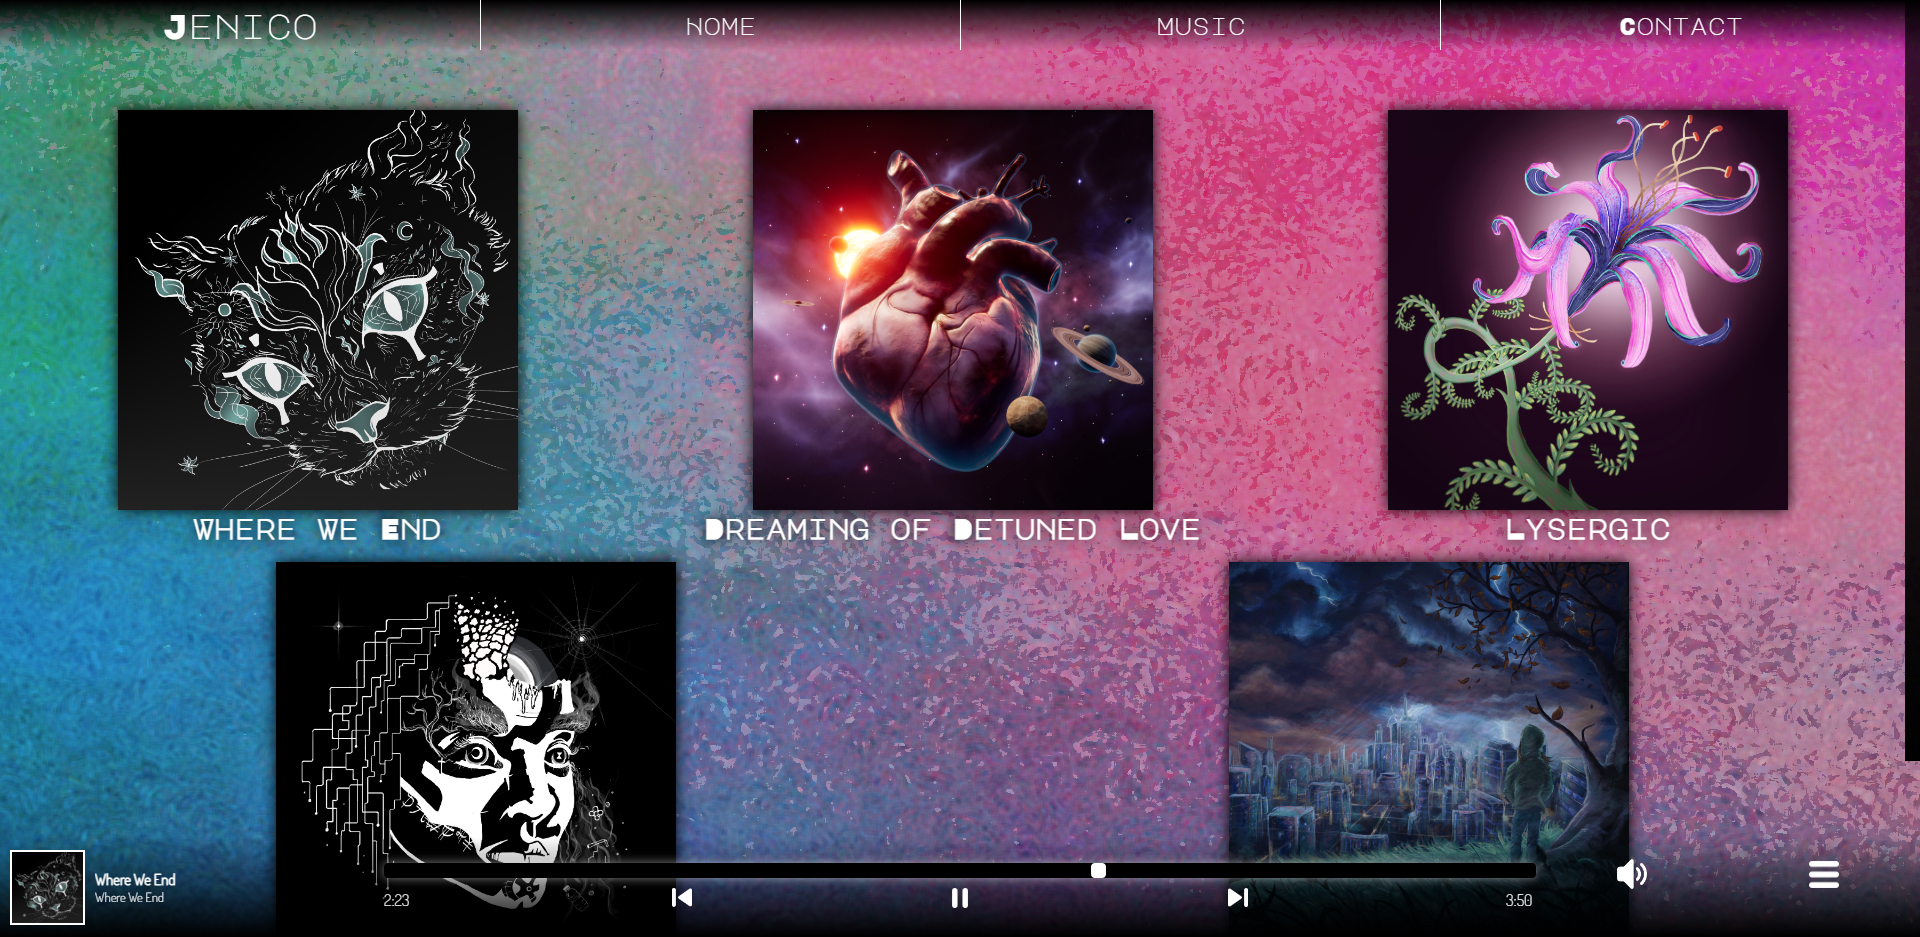
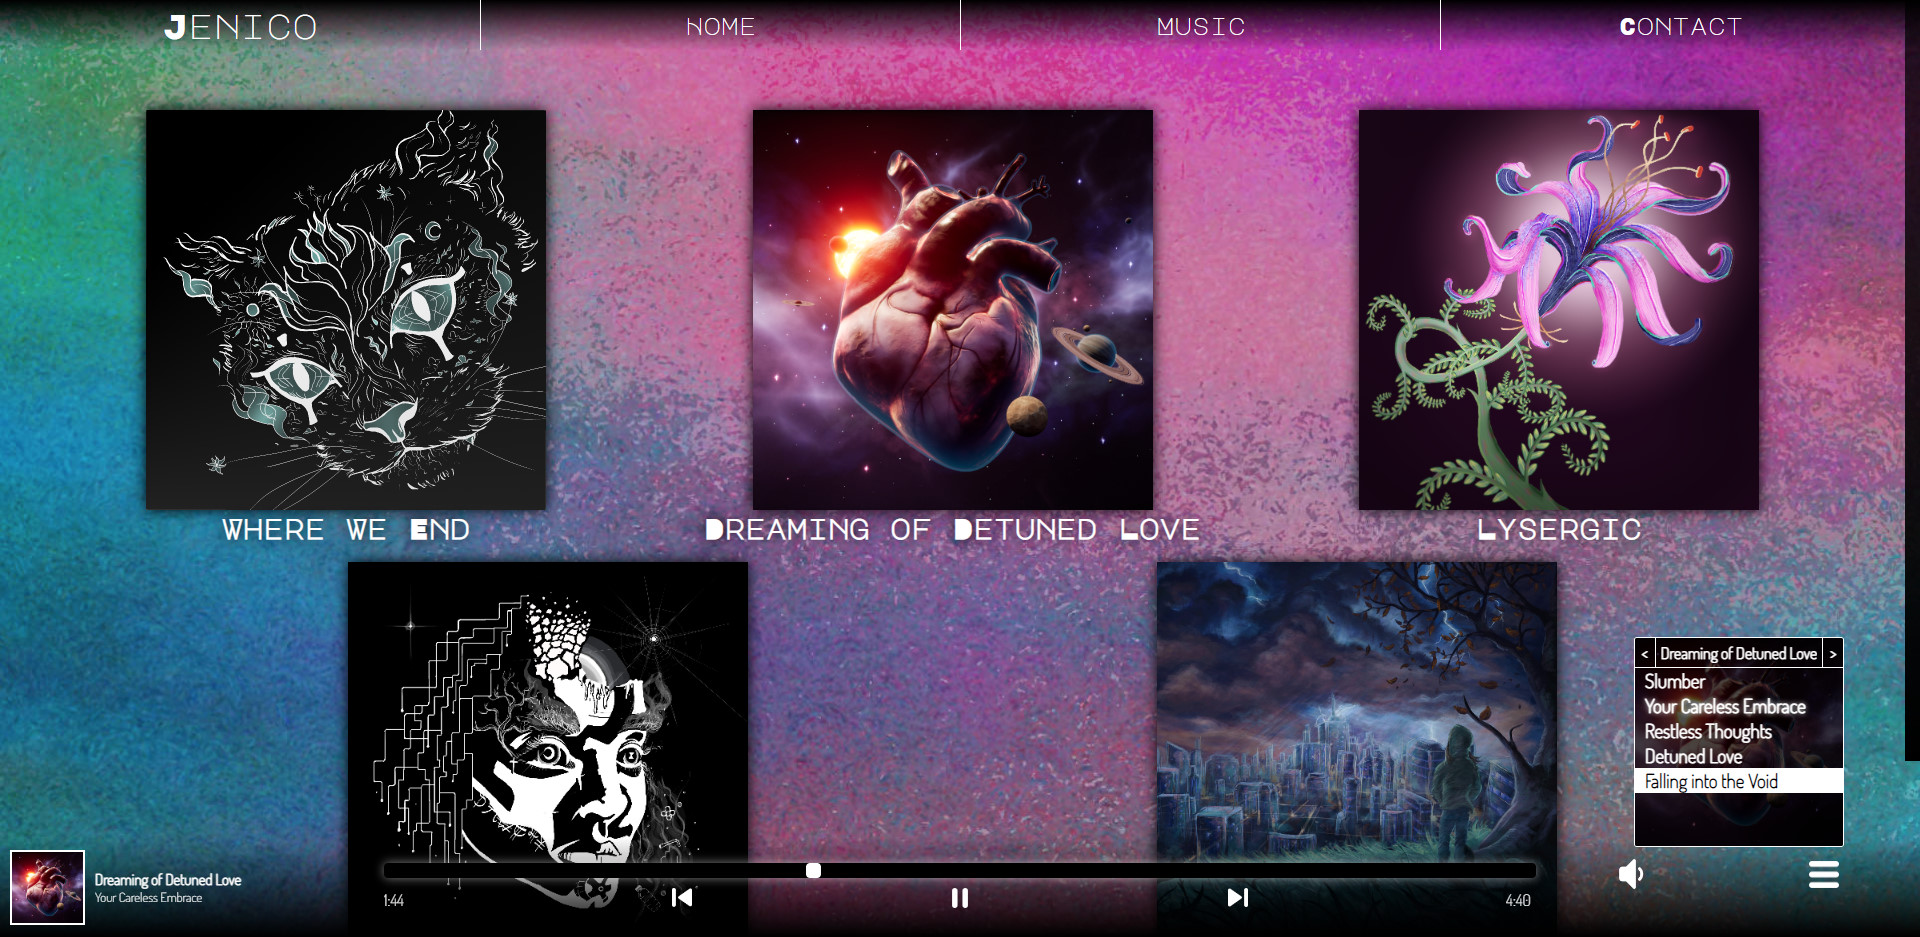
fixing and cleaning up html and css

diff --git a/index.html b/index.html
@@ -12,9 +12,7 @@
 </head>
 <body>
     <div>
-        <div class="animation fillScreen"></div>
         <nav>
-            <div class="animation"></div>
             <a href="#home">Home</a>
             <a href="#about">About</a>
             <a href="#skills">Skills</a>
@@ -94,18 +92,33 @@
                     <div class="info">
                         <img src="media/images/Jenico.jpg" alt="Music player page"/>
                         <div>
-                            <h3>Musician's Personal Website</h3>
-                            <p>Personal website for electronic music producer Jenico, with built in music player.</p>
-                            <section class="projectsSkills">
-                                <h4>Skills Used</h4>
-                                <ul>
-                                    <li><img src="media/images/React.png" alt="React"/></li>
-                                    <li><img src="media/images/Typescript.png" alt="Typescript"/></li>
-                                    <li><img src="media/images/Firebase.png" alt="Firebase"/></li>
-                                </ul>
-                            </section>
-                            <a href="https://github.com/PerryBaran/dodl" target="_blank">Repository</a>
-                            <a href="https://perrybaran.github.io/dodl/" target="_blank">Live Preview</a>
+                            <h3>Personal Website and Music Player</h3>
+                            <p>A small personal project to showcase my music. Repurposed and improved upon a lot of the code from the project below, but I believe 
+                                both projects do enough different to justify them both being showcased. Created in React and Typescript.</p>
+                            <ul class="projectsSkills">
+                                <li><img src="media/images/React.png" alt="React"/></li>
+                                <li><img src="media/images/Typescript.png" alt="Typescript"/></li>
+                                <li><img src="media/images/Firebase.png" alt="Firebase"/></li>
+                            </ul>
+                            <a href="https://github.com/PerryBaran/Jenico" target="_blank">Repository</a>
+                            <a href="https://perrybaran.github.io/Jenico/" target="_blank">Live Preview</a>
+                        </div>
+                    </div>
+                </section>
+                <section class="project">
+                    <div class="info">
+                        <img src="media/images/DoDL.jpg" alt="Music player page"/>
+                        <div>
+                            <h3>Music and Video Player</h3>
+                            <p>Music and video player for one of my EPs. Created in React, unit tests with Jest and React Testing Library.
+                            </p>
+                            <ul class="projectsSkills">
+                                <li><img src="media/images/React.png" alt="React"/></li>
+                                <li><img src="media/images/Jest.png" alt="Jest"/></li>
+                                <li><img src="media/images/Firebase.png" alt="Firebase"/></li>
+                            </ul>
+                            <a href="https://github.com/PerryBaran/Jenico" target="_blank">Repository</a>
+                            <a href="https://perrybaran.github.io/Jenico/" target="_blank">Live Preview</a>
                         </div>
                     </div>
                 </section>
@@ -115,14 +128,11 @@
                         <div>
                             <h3>Weather App</h3>
                             <p>Weather app created in Javascript. Gets weather data from OpenWeatherMap's Weather API.</p>
-                            <section class="projectsSkills">
-                                <h4>Skills Used</h4>
-                                <ul>
-                                    <li><img src="media/images/JS.png" alt="Javascript"/></li>
-                                    <li><img src="media/images/HTML5.png" alt="HTML5"/></li>
-                                    <li><img src="media/images/CSS3.png" alt="CSS3"/></li>
-                                </ul>
-                            </section>
+                            <ul class="projectsSkills">
+                                <li><img src="media/images/JS.png" alt="Javascript"/></li>
+                                <li><img src="media/images/HTML5.png" alt="HTML5"/></li>
+                                <li><img src="media/images/CSS3.png" alt="CSS3"/></li>
+                            </ul>
                             <a href="https://github.com/PerryBaran/weatherapp" target="_blank">Repository</a>
                             <a href="https://perrybaran.github.io/weatherapp/" target="_blank">Live Preview</a>
                         </div>
@@ -130,18 +140,15 @@
                 </section>
                 <section class="project">
                     <div class="info">
-                        <img src="media/images/DoDL.jpg" alt="Music Player page"/>
+                        <img src="media/images/Online Store.jpg" alt="Item page"/>
                         <div>
-                            <h3>Music Player</h3>
-                            <p>Music and videoplayer for the album Dreaming of Detuned Love by Jenico.</p>
-                            <section class="projectsSkills">
-                                <h4>Skills Used</h4>
-                                <ul>
-                                    <li><img src="media/images/React.png" alt="React"/></li>
-                                    <li><img src="media/images/Jest.png" alt="Jest"/></li>
-                                    <li><img src="media/images/Firebase.png" alt="Firebase"/></li>
-                                </ul>
-                            </section>
+                            <h3>Online Store</h3>
+                            <p>UI for an online videogame key seller. Made in React and my first project to use React BrowserRouter.</p>
+                            <ul class="projectsSkills">
+                                <li><img src="media/images/React.png" alt="React"/></li>
+                                <li><img src="media/images/JS.png" alt="Javascript"/></li>
+                                <li><img src="media/images/CSS3.png" alt="CSS3"/></li>
+                            </ul>
                             <a href="https://github.com/PerryBaran/shopping-cart" target="_blank">Repository</a>
                             <a href="https://perrybaran.github.io/shopping-cart/#/" target="_blank">Live Preview</a>
                         </div>

diff --git a/styles/styles.css b/styles/styles.css
@@ -195,7 +195,7 @@ header p > a {
 /*About*/
 #about img{
     aspect-ratio: 1;
-    height: 400px;
+    height: 380px;
     border-radius: 100%;
 }
 
@@ -326,21 +326,13 @@ img[alt$="page"]{
     z-index: 5000;
 }
 
-.projectsSkills > h4 {
-    margin-bottom: 5px;
-
-    color: var(--colour-light);
-
-    font-family: 'Roboto Mono', monospace;
-    font-size: 1.5rem;
-    font-weight: bold;
-}
-
-.projectsSkills ul {
+.projectsSkills {
     all:unset;
     display: flex;
     justify-content: space-around;
     align-items: center;
+
+    margin-top: 40px;
 }
 
 .projectsSkills li {
@@ -353,25 +345,8 @@ img[alt$="page"]{
     background-color: var(--colour-light)
 }
 
-#projects .project:nth-of-type(2n) p, #projects .project:nth-of-type(2n) h3, #projects .project:nth-of-type(2n) h4 {
+#projects .project:nth-of-type(2n) p, #projects .project:nth-of-type(2n) h3 {
     color: white;
-}
-
-/*animation slows down website a lot*/
-.animation {
-    animation: hue 120s;
-    animation-iteration-count: infinite;
-    pointer-events: none;
-}
-
-@keyframes hue {
-    from {
-        backdrop-filter: hue-rotate(0deg);
-    }
-
-    to {
-        backdrop-filter: hue-rotate(360deg);
-    }
 }
 
 @media (orientation: portrait) {
